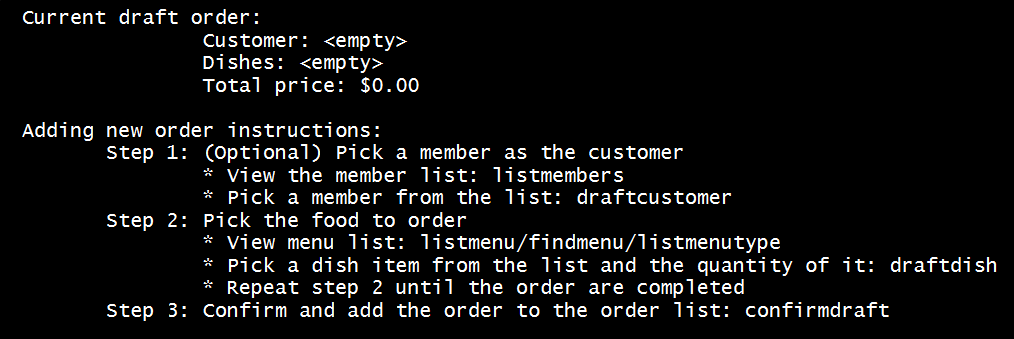
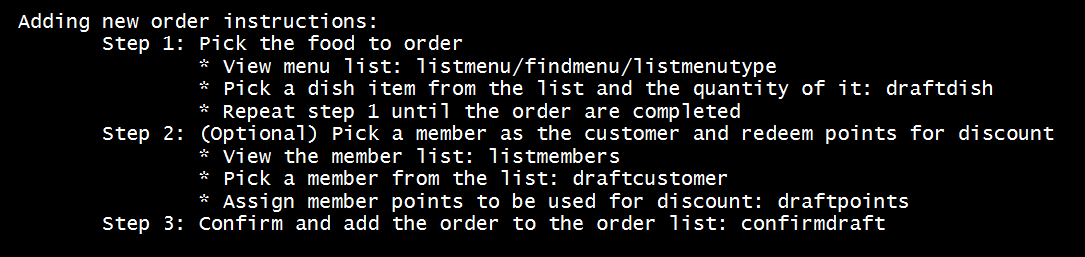
Rebuild pages at ec8dd431ea0061dd2f2c4140f988d0916195488b

Changed region(s): [[0.0, 0.0311, 1.0, 0.965]]

diff --git a/team/px1099.html b/team/px1099.html
@@ -220,7 +220,8 @@ the RMS feels more natural and less confusing.</p>
 the draft is confirmed.</p>
 </div>
 <div class="paragraph">
-<p>If the customer happens to be a member, the customer&#8217;s information can be found in the member list and can be added into the order draft to accumulate member points
+<p>If the customer is a registered member, the customer&#8217;s information can be found in the member list and can be added
+into the order draft to use and accumulate member points
 once the order is confirmed.</p>
 </div>
 <div class="ulist">
@@ -232,23 +233,6 @@ once the order is confirmed.</p>
 </div>
 <div class="paragraph">
 <p>Format: <code>addorder</code></p>
-</div>
-</li>
-<li>
-<p><strong>Select A Member As The Customer Of The Draft</strong><br>
-<em>This step is only necessary if the customer is a member.</em></p>
-<div class="paragraph">
-<p>Select a member from the last shown member list to be the customer of the draft order.<br></p>
-</div>
-<div class="paragraph">
-<p>Format: <code>draftcustomer INDEX</code></p>
-</div>
-<div class="ulist">
-<ul>
-<li>
-<p>The index refers to the index number shown in the last shown member list.</p>
-</li>
-</ul>
 </div>
 </li>
 <li>
@@ -279,6 +263,47 @@ integer, then its quantity will be adjusted to the new value.</p>
 <ul>
 <li>
 <p>The index refers to the index number shown in the last shown menu list.</p>
+</li>
+</ul>
+</div>
+</li>
+<li>
+<p><strong>Select A Member As The Customer Of The Draft</strong><br>
+<em>This step is only necessary if the customer is a member.</em></p>
+<div class="paragraph">
+<p>Select a member from the last shown member list to be the customer of the draft order.<br></p>
+</div>
+<div class="paragraph">
+<p>Format: <code>draftcustomer INDEX</code></p>
+</div>
+<div class="ulist">
+<ul>
+<li>
+<p>The index refers to the index number shown in the last shown member list.</p>
+</li>
+</ul>
+</div>
+</li>
+<li>
+<p><strong>Redeems member points in the draft order</strong><br>
+<em>This step can only be done if a member is assigned as the customer of the draft order</em></p>
+<div class="paragraph">
+<p>Assign member points to be redeemed as discount for the draft order.</p>
+</div>
+<div class="paragraph">
+<p>Format: <code>draftpoints POINTS</code></p>
+</div>
+<div class="ulist">
+<ul>
+<li>
+<p>The points redeemed must be a non-negative integer.</p>
+</li>
+<li>
+<p>The limit to the redeemable points is set as the smaller value between the amount of points the customer currently
+has and the maximum amount of points can be deduced such that the final price is not less than zero.</p>
+</li>
+<li>
+<p>If the assigned redeemed points is more than the limit, then it will be set back to the limit.</p>
 </li>
 </ul>
 </div>
@@ -367,12 +392,16 @@ newly added order can no longer be changed.<br></p>
 <p><strong>Display Add Order Commands</strong>: <code>addorder</code></p>
 </li>
 <li>
-<p><strong>Select Member As Customer Of The Draft</strong>: <code>draftcustomer INDEX</code><br>
+<p><strong>Edit Draft Dishes</strong>: <code>draftdish INDEX q/QUANTITY</code><br>
+e.g. <code>draftdish 4 q/1</code></p>
+</li>
+<li>
+<p><strong>Select Draft Customer</strong>: <code>draftcustomer INDEX</code><br>
 e.g. <code>draftcustomer 2</code></p>
 </li>
 <li>
-<p><strong>Edit Dishes In The Draft</strong>: <code>draftdish INDEX q/QUANTITY</code><br>
-e.g. <code>draftdish 4 q/1</code></p>
+<p><strong>Redeem Member Points</strong>: <code>draftpoints POINTS</code><br>
+e.g. <code>draftpoints 100</code></p>
 </li>
 <li>
 <p><strong>Clear The Draft</strong>: <code>cleardraft</code></p>
@@ -485,8 +514,8 @@ list if they present their membership card, pick the dish from the menu list one
 </li>
 <li>
 <p>Once an order is confirmed, the ordering time is recorded and the total price is calculated to create a new <code>Order</code>
-object that has the same customer and list of dishes fields as the ordering draft to be added to the order list, and
-the ordering draft is cleared afterward.</p>
+object that has the same customer and list of dishes fields as the ordering draft to be added to the order list, the
+member points of the customer is updated, and the ordering draft is cleared afterward.</p>
 </li>
 </ul>
 </div>
@@ -523,4 +552,4 @@ and adjusting the returning command in the <code>Parser</code> based on that var
 </div>
 </div>
 </div>
-</div></div><div id="footer"><div class="container"><div id="footer-text">Last updated 2018-11-07 08:41:17 UTC</div></div></div></body></html>
+</div></div><div id="footer"><div class="container"><div id="footer-text">Last updated 2018-11-07 13:27:23 UTC</div></div></div></body></html>

diff --git a/UserGuide.html b/UserGuide.html
@@ -522,7 +522,8 @@ Clocks out for the employee John Doe.</p>
 the draft is confirmed.</p>
 </div>
 <div class="paragraph">
-<p>If the customer happens to be a member, the customer&#8217;s information can be found in the member list and can be added into the order draft to accumulate member points
+<p>If the customer is a registered member, the customer&#8217;s information can be found in the member list and can be added
+into the order draft to use and accumulate member points
 once the order is confirmed.</p>
 </div>
 <div class="ulist">
@@ -534,23 +535,6 @@ once the order is confirmed.</p>
 </div>
 <div class="paragraph">
 <p>Format: <code>addorder</code></p>
-</div>
-</li>
-<li>
-<p><strong>Select A Member As The Customer Of The Draft</strong><br>
-<em>This step is only necessary if the customer is a member.</em></p>
-<div class="paragraph">
-<p>Select a member from the last shown member list to be the customer of the draft order.<br></p>
-</div>
-<div class="paragraph">
-<p>Format: <code>draftcustomer INDEX</code></p>
-</div>
-<div class="ulist">
-<ul>
-<li>
-<p>The index refers to the index number shown in the last shown member list.</p>
-</li>
-</ul>
 </div>
 </li>
 <li>
@@ -581,6 +565,47 @@ integer, then its quantity will be adjusted to the new value.</p>
 <ul>
 <li>
 <p>The index refers to the index number shown in the last shown menu list.</p>
+</li>
+</ul>
+</div>
+</li>
+<li>
+<p><strong>Select A Member As The Customer Of The Draft</strong><br>
+<em>This step is only necessary if the customer is a member.</em></p>
+<div class="paragraph">
+<p>Select a member from the last shown member list to be the customer of the draft order.<br></p>
+</div>
+<div class="paragraph">
+<p>Format: <code>draftcustomer INDEX</code></p>
+</div>
+<div class="ulist">
+<ul>
+<li>
+<p>The index refers to the index number shown in the last shown member list.</p>
+</li>
+</ul>
+</div>
+</li>
+<li>
+<p><strong>Redeems member points in the draft order</strong><br>
+<em>This step can only be done if a member is assigned as the customer of the draft order</em></p>
+<div class="paragraph">
+<p>Assign member points to be redeemed as discount for the draft order.</p>
+</div>
+<div class="paragraph">
+<p>Format: <code>draftpoints POINTS</code></p>
+</div>
+<div class="ulist">
+<ul>
+<li>
+<p>The points redeemed must be a non-negative integer.</p>
+</li>
+<li>
+<p>The limit to the redeemable points is set as the smaller value between the amount of points the customer currently
+has and the maximum amount of points can be deduced such that the final price is not less than zero.</p>
+</li>
+<li>
+<p>If the assigned redeemed points is more than the limit, then it will be set back to the limit.</p>
 </li>
 </ul>
 </div>
@@ -812,12 +837,16 @@ There is no need to save manually.</p>
 <p><strong>Display Add Order Commands</strong>: <code>addorder</code></p>
 </li>
 <li>
-<p><strong>Select Member As Customer Of The Draft</strong>: <code>draftcustomer INDEX</code><br>
+<p><strong>Edit Draft Dishes</strong>: <code>draftdish INDEX q/QUANTITY</code><br>
+e.g. <code>draftdish 4 q/1</code></p>
+</li>
+<li>
+<p><strong>Select Draft Customer</strong>: <code>draftcustomer INDEX</code><br>
 e.g. <code>draftcustomer 2</code></p>
 </li>
 <li>
-<p><strong>Edit Dishes In The Draft</strong>: <code>draftdish INDEX q/QUANTITY</code><br>
-e.g. <code>draftdish 4 q/1</code></p>
+<p><strong>Redeem Member Points</strong>: <code>draftpoints POINTS</code><br>
+e.g. <code>draftpoints 100</code></p>
 </li>
 <li>
 <p><strong>Clear The Draft</strong>: <code>cleardraft</code></p>
@@ -857,4 +886,4 @@ e.g. <code>deleteorder 3</code></p>
 </div>
 </div>
 </div>
-</div></div><div id="footer"><div class="container"><div id="footer-text">Last updated 2018-11-07 08:41:17 UTC</div></div></div></body></html>
+</div></div><div id="footer"><div class="container"><div id="footer-text">Last updated 2018-11-07 13:27:23 UTC</div></div></div></body></html>

diff --git a/DeveloperGuide.html b/DeveloperGuide.html
@@ -449,8 +449,8 @@ list if they present their membership card, pick the dish from the menu list one
 </li>
 <li>
 <p>Once an order is confirmed, the ordering time is recorded and the total price is calculated to create a new <code>Order</code>
-object that has the same customer and list of dishes fields as the ordering draft to be added to the order list, and
-the ordering draft is cleared afterward.</p>
+object that has the same customer and list of dishes fields as the ordering draft to be added to the order list, the
+member points of the customer is updated, and the ordering draft is cleared afterward.</p>
 </li>
 </ul>
 </div>
@@ -1645,4 +1645,4 @@ Guarantees:</p>
 <p><em>{More to be added}</em></p>
 </div>
 </div>
-</div></div><div id="footer"><div class="container"><div id="footer-text">Last updated 2018-11-07 08:41:17 UTC</div></div></div></body></html>
+</div></div><div id="footer"><div class="container"><div id="footer-text">Last updated 2018-11-07 13:27:23 UTC</div></div></div></body></html>

diff --git a/ContactUs.html b/ContactUs.html
@@ -13,4 +13,4 @@ if you noticed bugs or have suggestions on how to improve.</p>
 <p><strong>Contributing</strong> : We welcome pull requests. Follow the process described <a href="https://github.com/oss-generic/process">here</a></p>
 </li>
 </ul>
-</div></div><div id="footer"><div class="container"><div id="footer-text">Last updated 2018-11-07 08:41:17 UTC</div></div></div></body></html>
+</div></div><div id="footer"><div class="container"><div id="footer-text">Last updated 2018-11-07 13:27:23 UTC</div></div></div></body></html>

diff --git a/LearningOutcomes.html b/LearningOutcomes.html
@@ -503,4 +503,4 @@ of storages, but different number of storages (e.g. save to both a text file and
 </div>
 </div>
 </div>
-</div></div><div id="footer"><div class="container"><div id="footer-text">Last updated 2018-11-07 08:41:17 UTC</div></div></div></body></html>
+</div></div><div id="footer"><div class="container"><div id="footer-text">Last updated 2018-11-07 13:27:23 UTC</div></div></div></body></html>

diff --git a/AboutUs.html b/AboutUs.html
@@ -92,4 +92,4 @@ Responsibilities: In charge of Employee Feature</p>
 <hr>
 </div>
 </div>
-</div></div><div id="footer"><div class="container"><div id="footer-text">Last updated 2018-11-07 08:41:17 UTC</div></div></div></body></html>
+</div></div><div id="footer"><div class="container"><div id="footer-text">Last updated 2018-11-07 13:27:23 UTC</div></div></div></body></html>

diff --git a/team/salsabiltasnia.html b/team/salsabiltasnia.html
@@ -682,4 +682,4 @@ Actor: Cashier</p>
 <p>Use case ends.</p>
 </div>
 </div>
-</div></div><div id="footer"><div class="container"><div id="footer-text">Last updated 2018-11-07 08:41:17 UTC</div></div></div></body></html>
+</div></div><div id="footer"><div class="container"><div id="footer-text">Last updated 2018-11-07 13:27:23 UTC</div></div></div></body></html>

diff --git a/team/angwm.html b/team/angwm.html
@@ -401,4 +401,4 @@ Format: statsorder</p>
 </ul>
 </div>
 </div>
-</div></div><div id="footer"><div class="container"><div id="footer-text">Last updated 2018-11-07 08:41:17 UTC</div></div></div></body></html>
+</div></div><div id="footer"><div class="container"><div id="footer-text">Last updated 2018-11-07 13:27:23 UTC</div></div></div></body></html>

diff --git a/index.html b/index.html
@@ -72,4 +72,4 @@ SE-EDU initiative.</p>
 </ul>
 </div>
 </div>
-</div></div><div id="footer"><div class="container"><div id="footer-text">Last updated 2018-11-07 08:41:17 UTC</div></div></div></body></html>
+</div></div><div id="footer"><div class="container"><div id="footer-text">Last updated 2018-11-07 13:27:23 UTC</div></div></div></body></html>

diff --git a/team/kangmingtay.html b/team/kangmingtay.html
@@ -409,4 +409,4 @@ Guarantees:</p>
 </div>
 </div>
 </div>
-</div></div><div id="footer"><div class="container"><div id="footer-text">Last updated 2018-11-07 08:41:17 UTC</div></div></div></body></html>
+</div></div><div id="footer"><div class="container"><div id="footer-text">Last updated 2018-11-07 13:27:23 UTC</div></div></div></body></html>

diff --git a/team/kianhong95.html b/team/kianhong95.html
@@ -684,4 +684,4 @@ Guarantees:</p>
 </ul>
 </div>
 </div>
-</div></div><div id="footer"><div class="container"><div id="footer-text">Last updated 2018-11-07 08:41:17 UTC</div></div></div></body></html>
+</div></div><div id="footer"><div class="container"><div id="footer-text">Last updated 2018-11-07 13:27:23 UTC</div></div></div></body></html>
